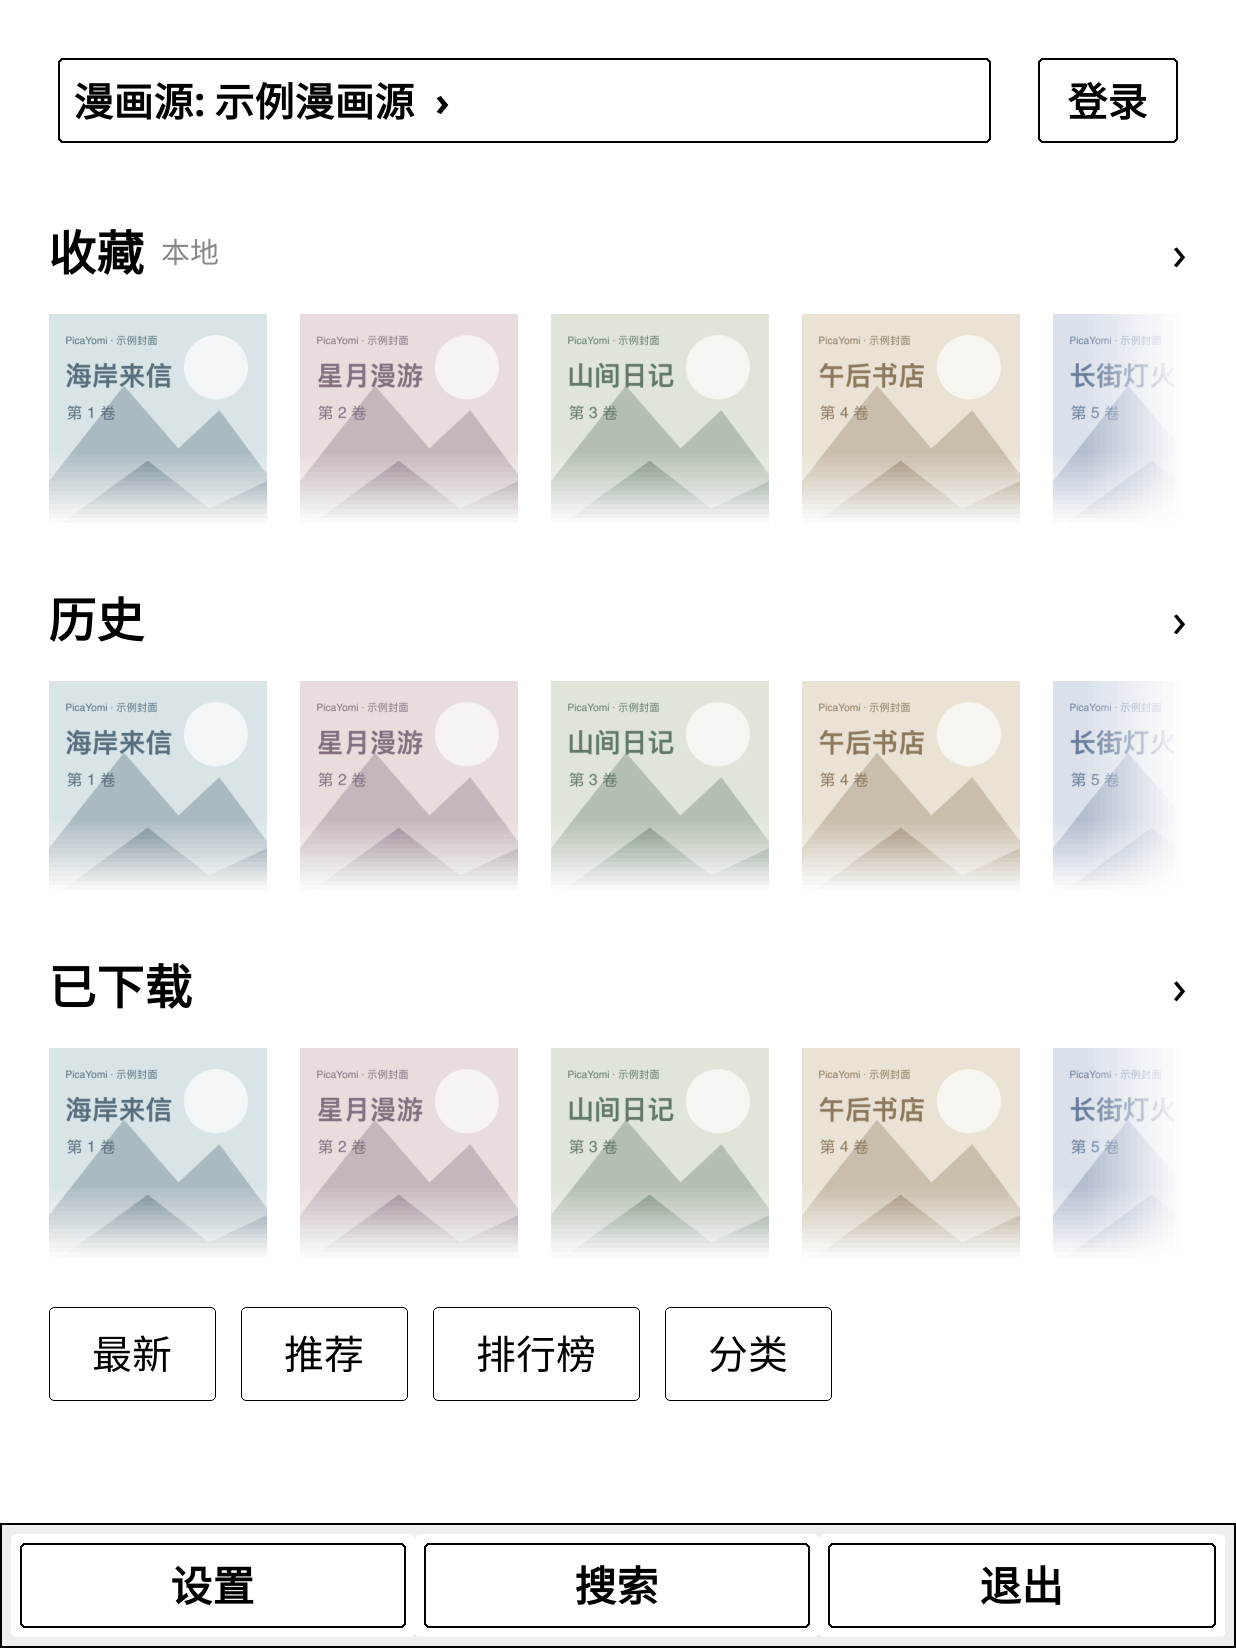
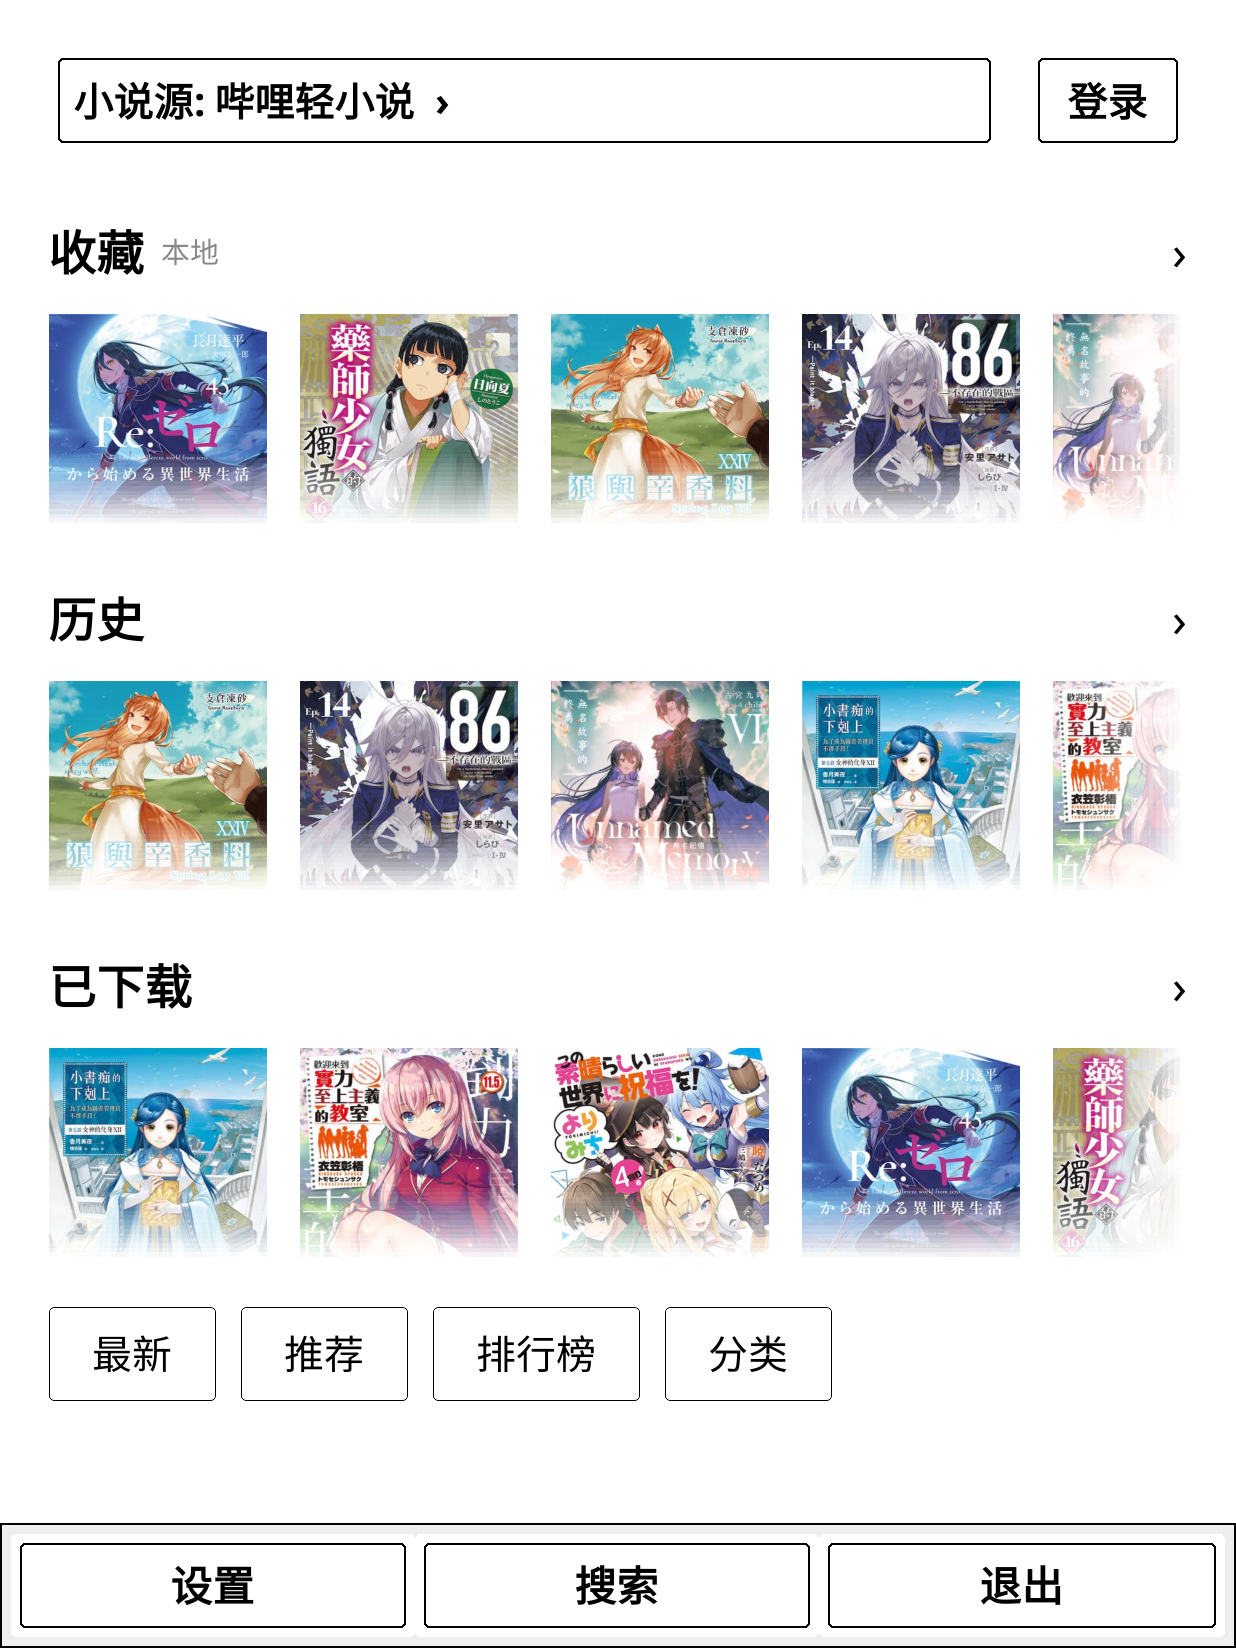
更新插件发布快照

diff --git a/README.md b/README.md
@@ -12,7 +12,6 @@
 |---|---|---|---|
 | ![主页](docs/screenshots/home.png) | ![漫画详情](docs/screenshots/detail.png) | ![小说详情](docs/screenshots/novel-detail.png) | ![小说阅读](docs/screenshots/novel-reader.png) |
 
-主页预览使用示例书目与封面。
 
 ## 安装
 
@@ -50,7 +49,7 @@ koreader/
 
 进入 **设置 → 源管理 → 更新源（全部订阅）**，安装 **轻小说文库** 或 **哔哩轻小说**，再正常重启 KOReader。小说源需要单独安装；若提示插件版本不兼容，请先从 [Releases](https://github.com/UFOAlastor/koreader_PicaYomi/releases/latest) 升级插件。
 
-首页按漫画、小说分组切源。小说支持按题材浏览、查看详情和目录、图文阅读、直接切章、收藏、续读及离线下载。字体和排版在阅读页使用 KOReader 设置；可设置提前加载后续 0～5 章，默认 1 章。长目录及章节加载会显示阶段与等待时间，可取消；退出阅读时显示返回提示。
+首页按漫画、小说分组切源。小说支持按题材浏览、查看详情和目录、图文阅读、直接切章、收藏、续读及离线下载。字体和排版在阅读页使用 KOReader 设置；长按插图进入大图页，点击“保存插图”选择目录即可另存图片；可设置提前加载后续 0～5 章，默认 1 章。长目录及章节加载会显示阶段与等待时间，可取消；退出阅读时显示返回提示。
 
 轻小说文库的搜索、推荐、最新、分类及在线书架需要个人账号。哔哩支持匿名分类浏览，搜索可能受站点验证限制；在线书架和分页回复暂不可用，可使用本地收藏。下架、受限或不完整章节会提示错误。评论只供查阅，不支持发表。
 

diff --git a/README.en.md b/README.en.md
@@ -14,7 +14,6 @@ A manga and novel reader plugin for [KOReader](https://github.com/koreader/korea
 |---|---|---|---|
 | ![Home](docs/screenshots/home.png) | ![Manga details](docs/screenshots/detail.png) | ![Novel details](docs/screenshots/novel-detail.png) | ![Novel reading](docs/screenshots/novel-reader.png) |
 
-The home preview uses sample titles and covers.
 
 ## Installation
 
@@ -34,6 +33,8 @@ The home page places source selection and account access at the top, with Settin
 Sources are managed under 设置 → 源管理 (Settings → Source management). The default subscription is already configured. Automatic source update checks are disabled by default; when enabled, downloading an update still requires confirmation. Source changes take effect after restarting KOReader.
 
 Search, History, and Cancel close the search input. Returning from search history or results goes back to the calling page. Every nonempty submitted keyword is saved to search history, including failed requests, timeouts, and searches with no results.
+
+Long-press an illustration, tap **保存插图 (Save illustration)** in the image viewer, and choose a folder to save it.
 
 Novels support illustrated novel reading, chapter navigation, typography settings, resume, offline downloads, and configurable chapter preloading. Install **Wenku8** or **BiliNovel** from Settings → Source Management → Update Sources (all subscriptions), then restart KOReader. If the plugin version is incompatible, update the plugin from [Releases](https://github.com/UFOAlastor/koreader_PicaYomi/releases/latest) first. Wenku8 browsing requires a personal account; BiliNovel search may be blocked by site verification and its online bookshelf is unavailable. Local favorites remain available.
 

diff --git a/CHANGELOG.md b/CHANGELOG.md
@@ -1,5 +1,10 @@
 # 更新记录
 
+## 1.2.9 — 开发更新
+
+- 小说阅读长按插图后，可在大图页点击“保存插图”选择目录另存；同名文件自动另存，退出阅读会取消未执行的保存。
+- 主页预览更新为真实封面。
+
 ## 1.2.8 — 2026-10-29
 
 本次正式发行包含自 1.2.5 以来的下列改动；1.2.6、1.2.7 为中间开发版本，随本版合并发行。
